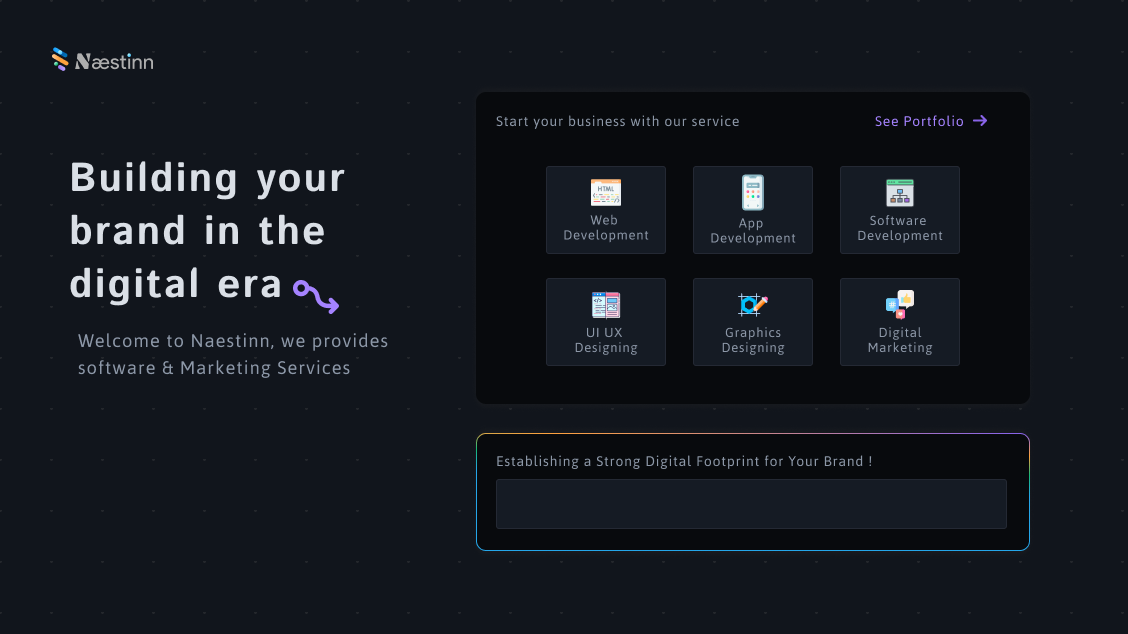
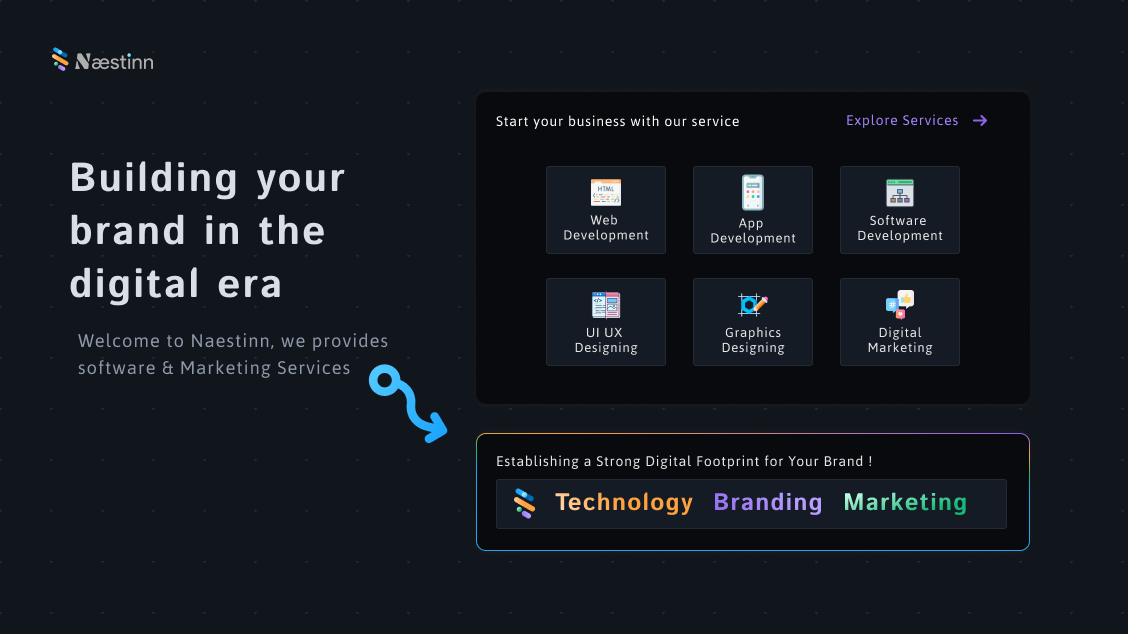
UPDATE

diff --git a/components/header.php b/components/header.php
@@ -51,7 +51,7 @@
                                     <a href="about-us.php" class="link menu-link"> Company </a>
                                 </li>
                                 <li class="menu-list">
-                                    <a href="" class="link menu-link has-sub"> Our Service </a>
+                                    <a href="" class="link menu-link has-sub">Services</a>
                                     <ul class="list menu-sub">
                                         <li class="menu-sub-list">
                                             <a href="index.php" class="link menu-sub-link gap-4">
@@ -105,10 +105,18 @@
                                     <a href="our-blogs.php" class="link menu-link"> Blogs </a>
                                 </li>
                                 <li class="menu-list">
-                                    <a href="contact-us.php" class="link menu-link"> Contact Us </a>
+                                    <a href="contact-us.php" class="link menu-link">Contact</a>
+                                </li>
+                                <li class="menu-list" data-cursor="Only Employee">
+                                    <a href="erp/login.php" class="link d-inline-flex align-items-center gap-2 py-2 px-3 rounded-1 bg-grad-6 clr-white fw-bold fs-14">
+                                        <span class="d-inline-block ff-3"> ERP-login </span>
+                                        <span class="d-inline-block fs-12">
+                                            <i class="bi bi-arrow-up-right"></i>
+                                        </span>
+                                    </a>
                                 </li>
                             </ul>
-                            <ul>
+                            <!-- <ul>
                                 <li class="menu-list" data-cursor="Only Employee">
                                     <a href="erp/login.php" class="link d-inline-flex align-items-center gap-2 py-2 px-3 rounded-1 bg-grad-6 clr-white fw-bold fs-14">
                                         <span class="d-inline-block ff-3"> ERP Login </span>
@@ -117,7 +125,7 @@
                                         </span>
                                     </a>
                                 </li>
-                            </ul>
+                            </ul> -->
                         </div>
                     </nav>
                 </div>

diff --git a/index.php b/index.php
@@ -28,7 +28,7 @@
             <div class="row justify-content-center">
                 <div class="col-xl-10">
                     <div class="position-relative z-1 fadeIn_bottom">
-                        <img src="assets/images/Home/hero_banner_img3.png" alt="Trulli" class="img-fluid rounded-4 border border-8x border-outline border-opacity-2">
+                        <a href="our-services.php" data-cursor="Explore Us"><img src="assets/images/Home/hero_banner_img3.png" alt="Trulli" class="img-fluid rounded-4 border border-8x border-outline border-opacity-2"></a>
                         <img src="assets/images/Home/hero-cartoon2.png" alt="image" class="img-fluid d-none d-lg-block hero-6__el hero-6__el-1" width="35%">
                         <img src="assets/images/Home/hero-el-1.png" alt="image" class="img-fluid d-none d-lg-block hero-6__el hero-6__el-2">
                     </div>
@@ -255,7 +255,7 @@
                                                 </span>
                                             </li>
                                         </ul>
-                                        <img src="assets/img/customer-logo-1.png" alt="image" class="img-fluid">
+                                        <img src="assets/images/Home/goodfirm-review.png" alt="image" class="img-fluid">
                                     </div>
                                 </div>
                             </div>
